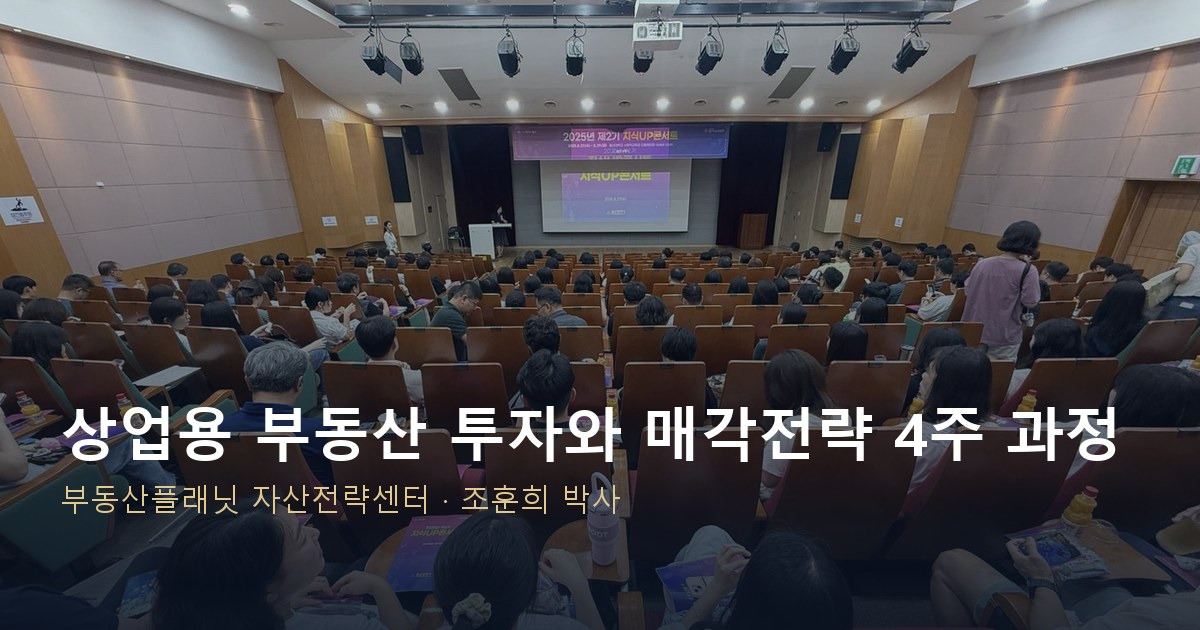
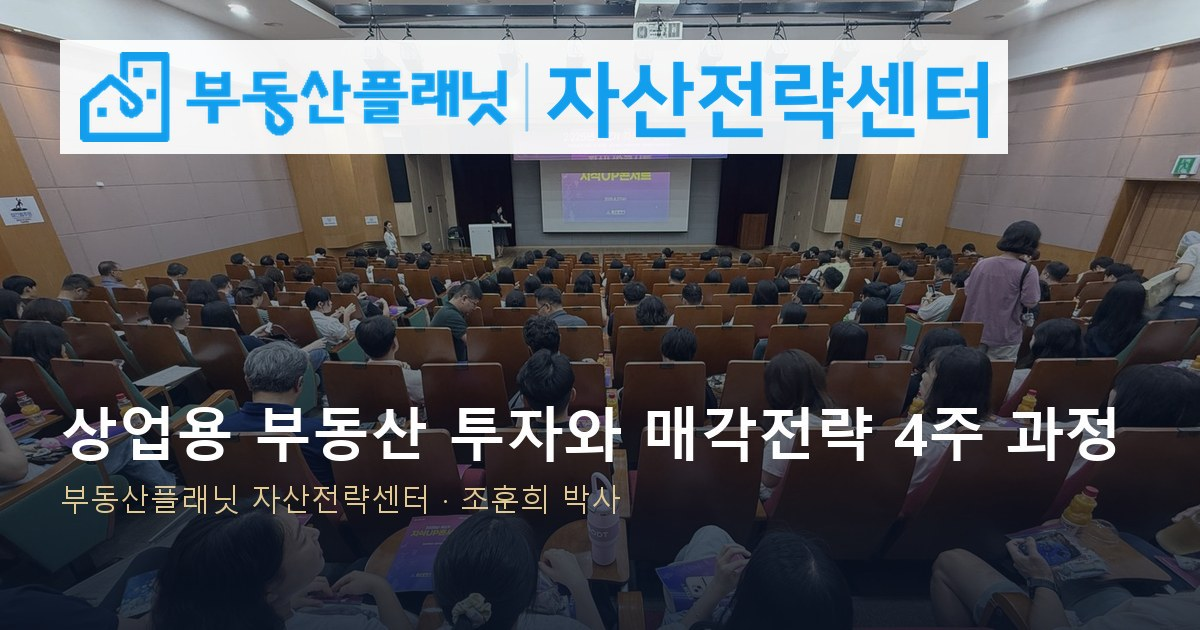
랜딩 v3.2: 자산전략센터 워드마크 락업

Changed region(s): [[0.0308, 0.0603, 0.8633, 0.2714]]

diff --git a/index.html b/index.html
@@ -589,12 +589,13 @@ section.sec::before{display:none}
 .dm img{border-radius:18px!important}
 footer{background:#F7F7F7;padding-top:28px}
 .bar .btn{border-radius:8px}
+@media(max-width:900px){.brand img{height:22px!important}.hero .kicker img{height:13px!important}}
 </style>
 </head>
 <body>
 
 <header class="top"><div class="wrap">
- <a class="brand" href="#top"><img src="assets/planet_logo.png" alt="부동산플래닛"><span class="x">자산전략센터</span></a>
+ <a class="brand" href="#top"><img src="assets/center_lockup.png" alt="부동산플래닛 자산전략센터" style="height:26px"></a>
  <nav class="menu"><a href="#course">과정</a><a href="#curriculum">커리큘럼</a><a href="#cases">실적</a><a href="#reviews">후기</a><a href="#coaching">1:1 코칭</a><a href="#faq">FAQ</a></nav>
  <a class="btn gold sm" href="#apply">교육 신청</a>
 </div></header>
@@ -602,7 +603,7 @@ footer{background:#F7F7F7;padding-top:28px}
 <section class="hero" id="top"><div class="bg"><img src="assets/lecture9/hero_bg.jpg" alt=""></div><div class="wrap">
  <div class="side">REAL ESTATE ASSET STRATEGY · SINCE 2009</div>
  <div>
-  <div class="kicker"><img src="assets/planet_logo.png" alt="부동산플래닛">부동산플래닛 자산전략센터 조훈희 박사 · 상업용 부동산 투자와 매각전략 4주 과정</div>
+  <div class="kicker"><img src="assets/center_lockup.png" alt="부동산플래닛 자산전략센터" style="height:16px">조훈희 박사 · 상업용 부동산 투자와 매각전략 4주 과정</div>
   <h1><span style="white-space:nowrap">좋은 건물을 <em>싸게 사는 법</em>,</span><br><span style="white-space:nowrap">건물을 좋게 만들어</span> <em style="white-space:nowrap">비싸게 파는 법</em></h1>
   <div class="rule"></div>
   <p class="sub">건물 투자의 답은 결국 두 가지입니다.<br>좋은 지역을 아는 것보다 <b>얼마나 오를 지역과 건물인지 아는 것</b>,<br>그리고 <b>건물의 수익성을 높여서 비싸게 파는 것</b>.<br>AI 빅데이터와 20년 경험으로 검증된 방법을 실무형 전문가 조훈희 박사가 이름과 얼굴을 걸고 직접 강의합니다.</p>
